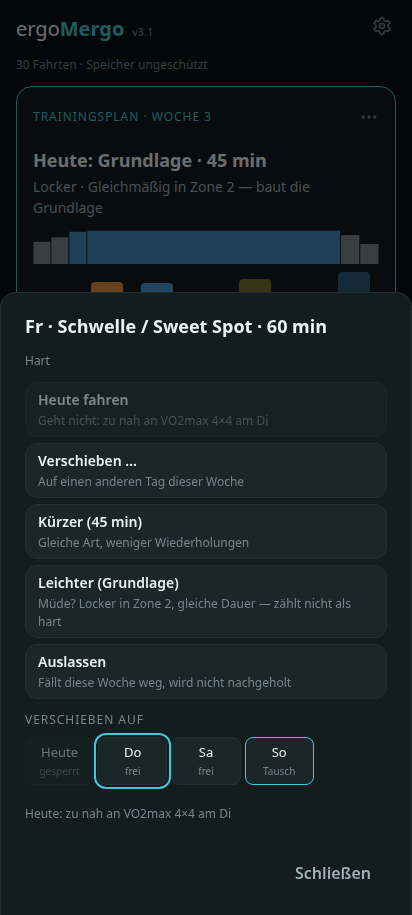
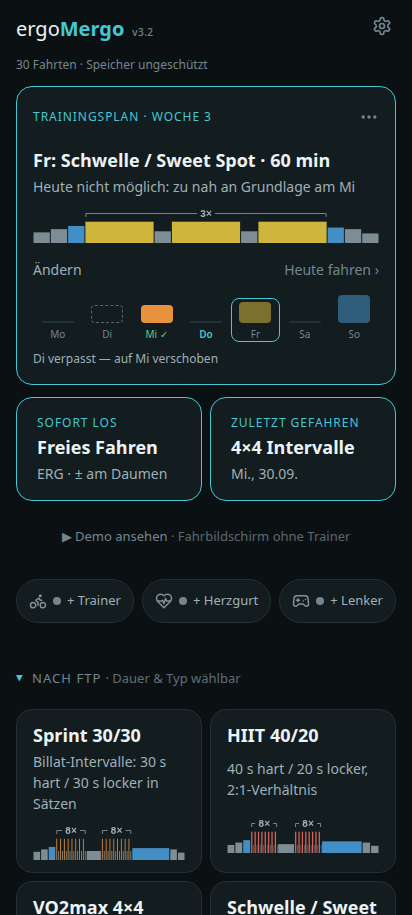
chore: Release v3.2 — Plan-Karte wie ein Kalender mit leisen Aktionen (Starten, Heute fahren, Fahrt ansehen, Ändern); README „Neu in 3.2", Screenshots
Claude-Session: https://claude.ai/code/session_01U7zYTZjzx3D8DmVkVyvKja

diff --git a/js/version.js b/js/version.js
@@ -1,5 +1,5 @@
 // App-Version — bei jedem Release zusammen mit VERSION in sw.js hochzählen.
-export const APP_VERSION = 'v3.1';
+export const APP_VERSION = 'v3.2';
 
 // Update-Watchdog: prüft das deployte sw.js auf GitHub Pages gegen die
 // laufende Version. Bei Abweichung wird die Service-Worker-Registrierung

diff --git a/sw.js b/sw.js
@@ -2,7 +2,7 @@
 // offline startet. VERSION bei jedem Release hochzählen — alte Caches werden
 // beim Aktivieren entsorgt.
 
-const VERSION = 'v3.1';
+const VERSION = 'v3.2';
 const CACHE = `ergomergo-${VERSION}`;
 const SHELL = [
   '.', 'index.html', 'css/tokens.css', 'css/app.css', 'manifest.webmanifest',
